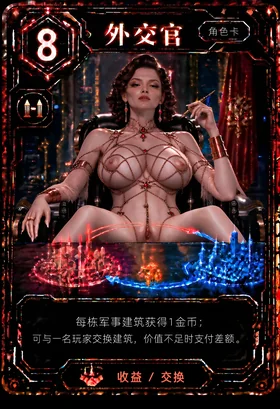
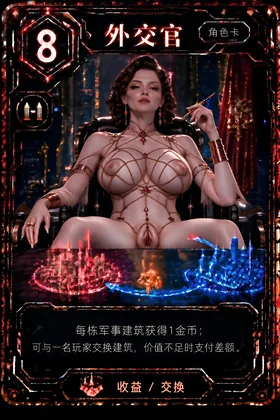
feat(theme): 更新外交官角色卡立绘

diff --git a/public/themes/neon/manifest.js b/public/themes/neon/manifest.js
@@ -33,7 +33,9 @@
         ? '?v=3'
         : (folder === 'roles' && key === 'spy'
           ? '?v=3'
-          : (versioned ? '?v=2' : '')));
+          : (folder === 'roles' && key === 'diplomat'
+            ? '?v=3'
+            : (versioned ? '?v=2' : ''))));
     return {
       thumb: base + folder + '/thumb/' + key + '.webp' + version,
       full: base + folder + '/full/' + key + '.webp' + version
